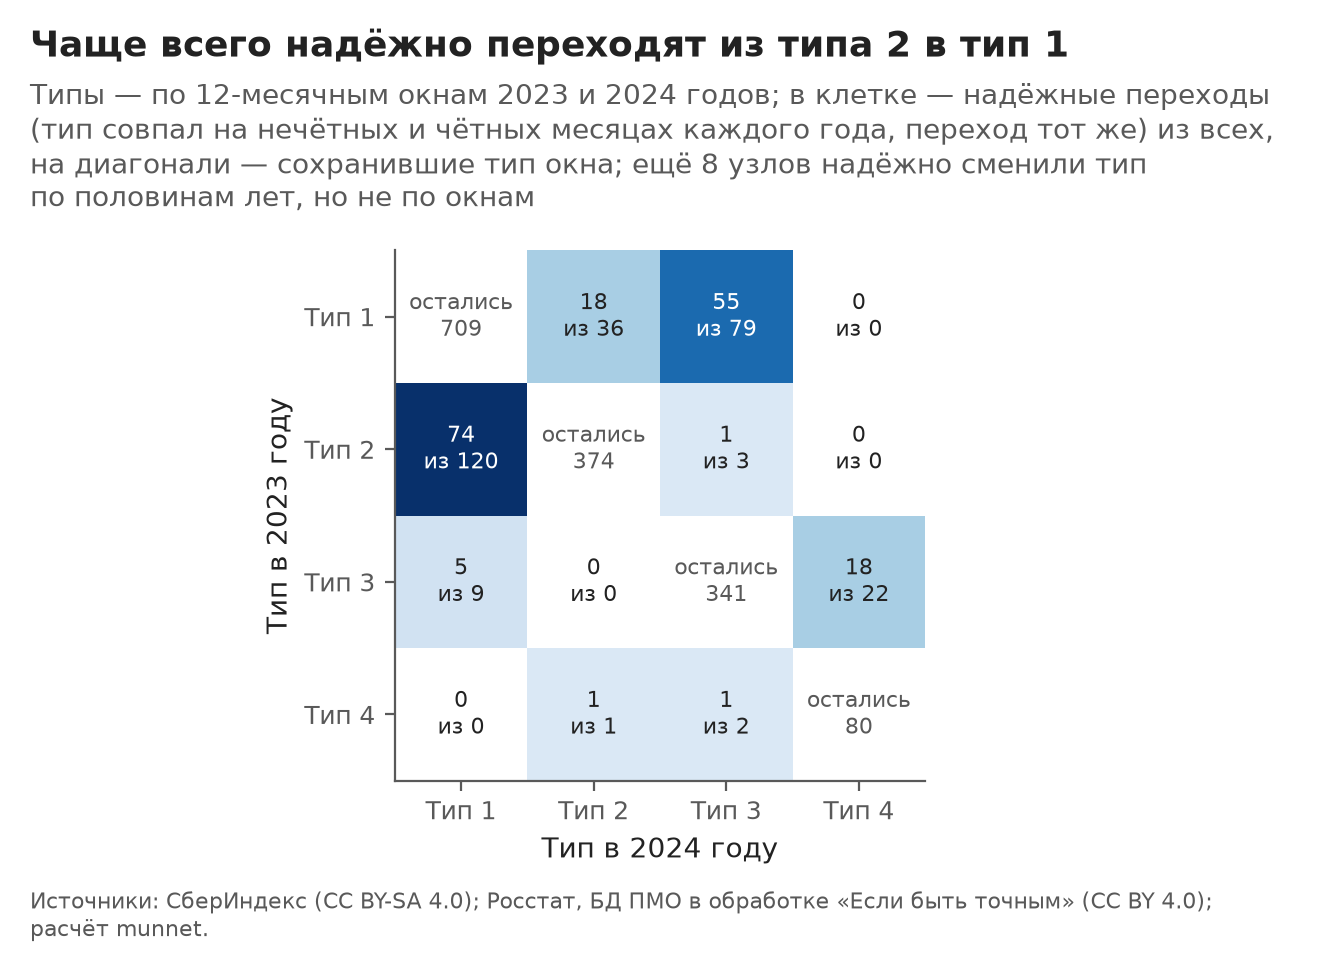
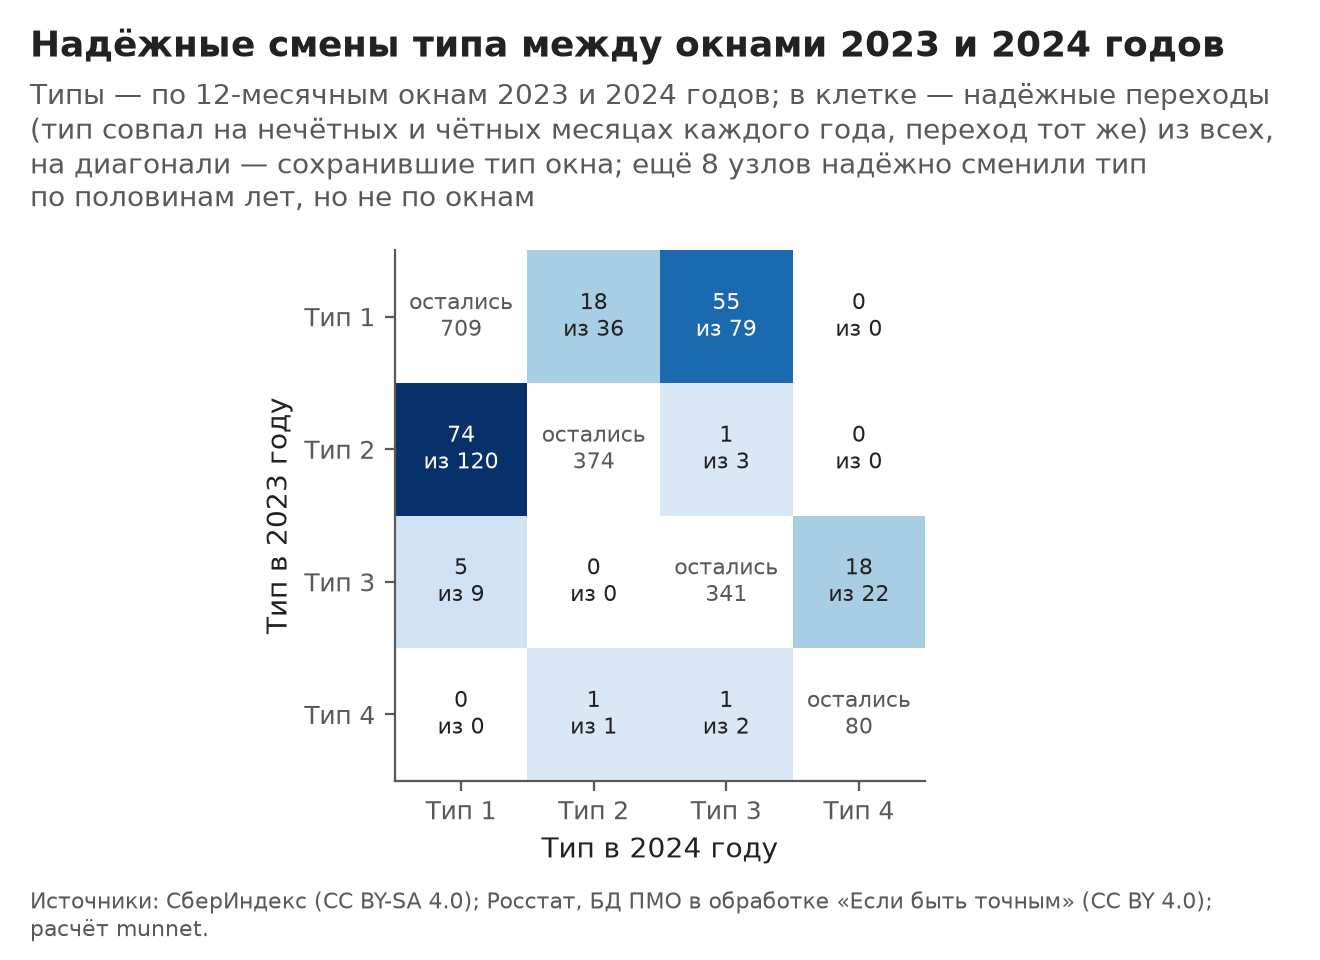
Рисунок D03 в docs/dynamics.md: нейтральный заголовок
Было «Чаще всего надёжно переходят из типа 2 в тип 1» — спорило с выводом «смена типа за год
не подтверждена». Стало «Надёжные смены типа между окнами 2023 и 2024 годов» (постоянная строка
в munnet.dynamics.figures, вне ключа кэша interpret; тест test_transitions_title_is_neutral).
Этап dynamics перезапущен: изменились только строка 135 docs/dynamics.md и D03_transitions.png;
таблицы и dynamics_history.parquet побайтно те же, кроме замера времени. Короткий совет 06.10.

Changed region(s): [[0.0311, 0.0312, 0.9318, 0.0625]]

diff --git a/src/munnet/dynamics/figures.py b/src/munnet/dynamics/figures.py
@@ -1,4 +1,5 @@
-"""Рисунки этапа dynamics (D01–D05): заголовок — вывод, который проверяется числами при сборке.
+"""Рисунки этапа dynamics (D01–D05): заголовок — вывод, который проверяется числами при сборке
+(у D03 — описание рисунка).
 
 D01 — изменение 2023 → 2024 против шума по трём способам; D02 — размеры типов по 13 окнам; D03 — матрица
 переходов (все и надёжные); D04 — проверка сюжета: какие части корзины сильнее меняются у перешедших;
@@ -192,9 +193,8 @@ def fig_transitions(out: Path, change, k: int) -> FigureInfo:
     ax.set_xlabel("Тип в 2024 году")
     ax.set_ylabel("Тип в 2023 году")
     ax.grid(False)
-    off = [(a, b) for a in range(k) for b in range(k) if a != b]
-    a0, b0 = max(off, key=lambda t: M_rel[t])
-    title = f"Чаще всего надёжно переходят из типа {a0 + 1} в тип {b0 + 1}"
+    # заголовок — описание, без «главного» потока: смена типа за год не подтверждена (T3, совет 06.10.2026)
+    title = "Надёжные смены типа между окнами 2023 и 2024 годов"
     subtitle = (
         "Типы — по 12-месячным окнам 2023 и 2024 годов; в клетке — надёжные переходы (тип совпал на нечётных "
         "и чётных месяцах каждого года, переход тот же) из всех, на диагонали — сохранившие тип окна; ещё "

diff --git a/tests/test_dynamics_report.py b/tests/test_dynamics_report.py
@@ -2,6 +2,8 @@
 
 from __future__ import annotations
 
+from types import SimpleNamespace
+
 import pandas as pd
 import pytest
 
@@ -113,3 +115,19 @@ def test_level_p_is_not_an_argument():
 
 def test_pct_range_keeps_one_percent_sign():
     assert R.pct_range(0.137, 0.1712) == "13,7–17,1%"
+
+
+def test_transitions_title_is_neutral(tmp_path):
+    """Заголовок D03 описывает рисунок и не выбирает «главный» поток: смена типа за год не подтверждена
+    (T3, раздел 7 отчёта), и заголовок по наибольшей клетке спорил бы с выводом (совет 06.10)."""
+    import numpy as np
+
+    from munnet.dynamics import figures as F
+
+    m_all = np.array([[300, 20, 5, 0], [74, 200, 3, 1], [9, 0, 341, 22], [0, 1, 2, 80]])
+    m_rel = np.array([[0, 10, 2, 0], [60, 0, 1, 0], [5, 0, 0, 18], [0, 1, 1, 0]])
+    change = SimpleNamespace(matrix=m_all, window_reliable_matrix=m_rel, n_reliable_window_same=8)
+    info = F.fig_transitions(tmp_path, change, 4)
+    assert info.title == "Надёжные смены типа между окнами 2023 и 2024 годов"
+    assert "Чаще" not in info.title
+    assert info.png.exists() and info.data_csv.exists()

diff --git a/docs/dynamics.md b/docs/dynamics.md
@@ -132,7 +132,7 @@
 
 ![Матрица 4 на 4: число надёжных и всех переходов между типами](img/dynamics/D03_transitions.png)
 
-*Рисунок 3. Чаще всего надёжно переходят из типа 2 в тип 1. Типы — по 12-месячным окнам 2023 и 2024 годов; в клетке — надёжные переходы (тип совпал на нечётных и чётных месяцах каждого года, переход тот же) из всех, на диагонали — сохранившие тип окна; ещё 8 узлов надёжно сменили тип по половинам лет, но не по окнам. Источник: СберИндекс (CC BY-SA 4.0); Росстат, БД ПМО в обработке «Если быть точным» (CC BY 4.0).* Данные: `outputs/dynamics/figures/D03_transitions.csv`.
+*Рисунок 3. Надёжные смены типа между окнами 2023 и 2024 годов. Типы — по 12-месячным окнам 2023 и 2024 годов; в клетке — надёжные переходы (тип совпал на нечётных и чётных месяцах каждого года, переход тот же) из всех, на диагонали — сохранившие тип окна; ещё 8 узлов надёжно сменили тип по половинам лет, но не по окнам. Источник: СберИндекс (CC BY-SA 4.0); Росстат, БД ПМО в обработке «Если быть точным» (CC BY 4.0).* Данные: `outputs/dynamics/figures/D03_transitions.csv`.
 
 - Надёжных переходов по предрегистрированному определению (типы половин года) — 181: из 2 в 1 — 74, из 1 в 3 — 55, из 1 в 2 — 26, из 3 в 4 — 18. Два крупнейших потока — 71,3% всех надёжных переходов. Те же потоки — в таблице изменений корзины ниже.
 - 8 узлов, надёжных по половинам, но без смены типа окон, стоят на границе типов: их 12-месячный тип не изменился.
